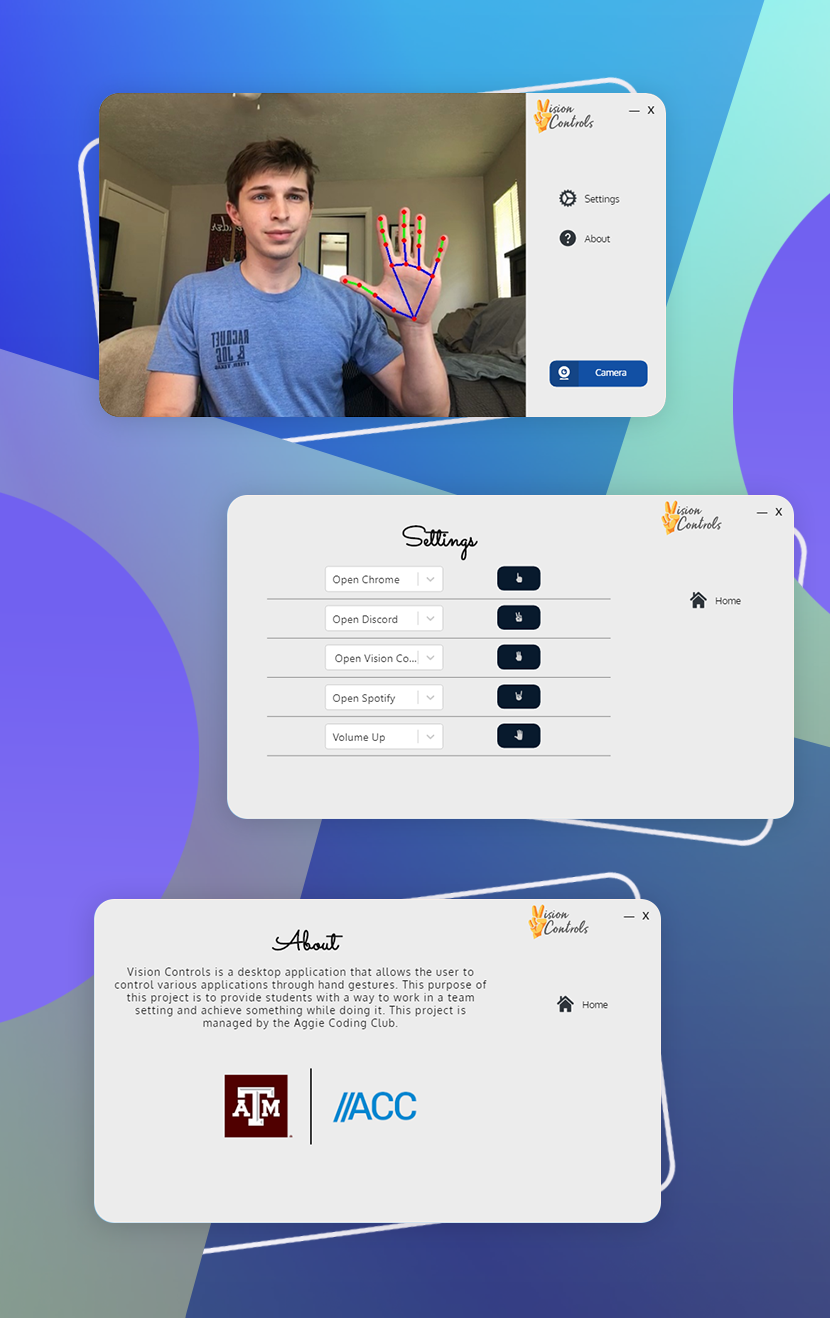
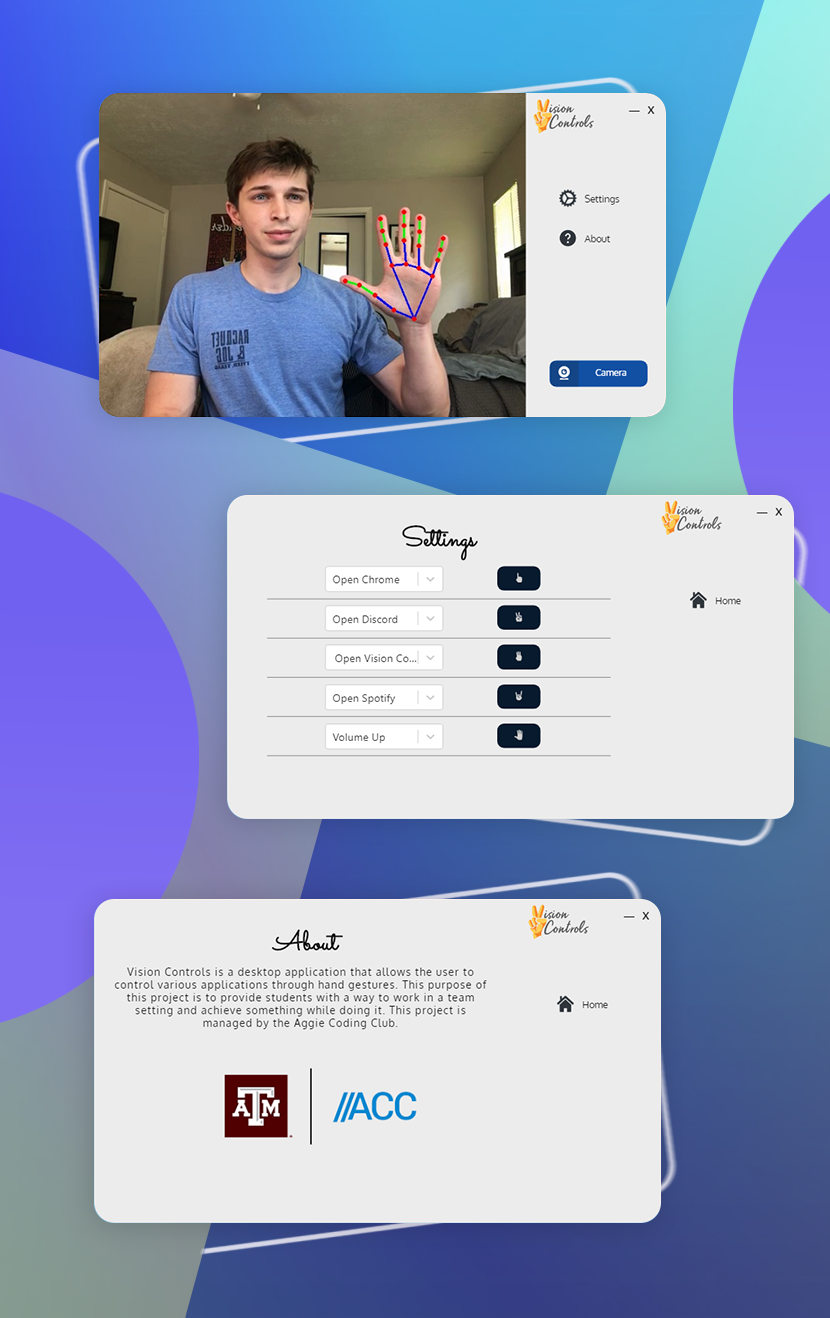
updated readme

diff --git a/README.md b/README.md
@@ -18,7 +18,7 @@ Vision Controls is a desktop application that allows the user to control various
 
 
 ## Showcase
-![ss1](./assets/readme/main.png)
+![ss1](./assets/readme/showcase.png)
 
 ## Tech Stack
 **Frontend**
